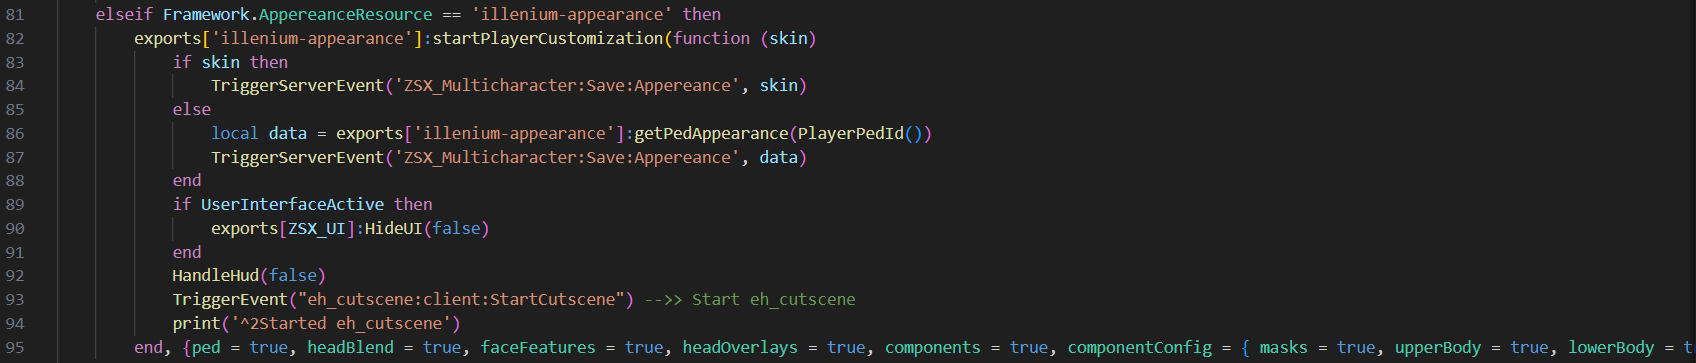
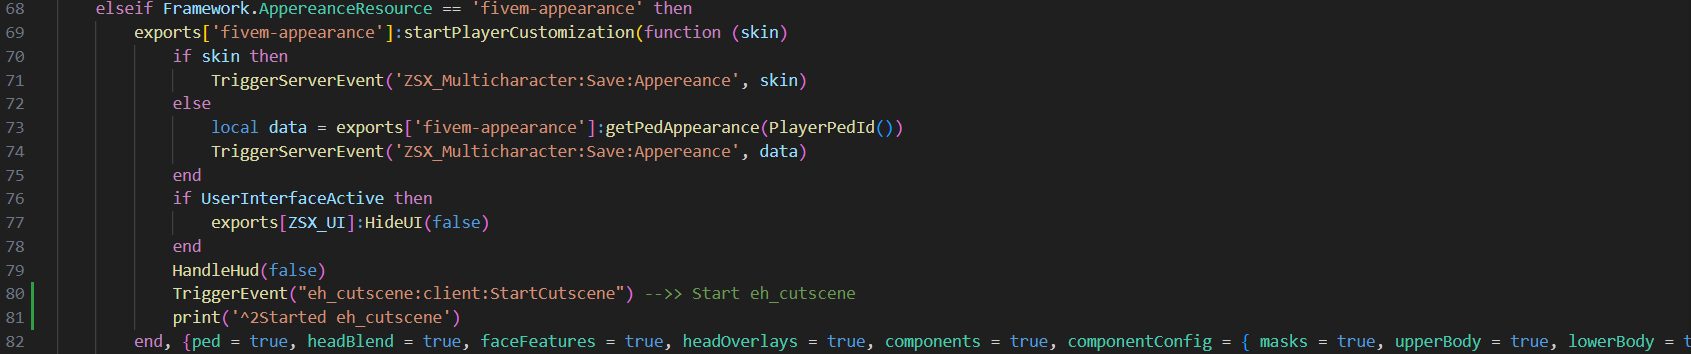
GITBOOK-188: No subject

diff --git a/our-scripts/advanced-cutscene/configuration/multicharacter/zsx-multicharacter.md b/our-scripts/advanced-cutscene/configuration/multicharacter/zsx-multicharacter.md
@@ -24,6 +24,42 @@ TriggerEvent("eh_cutscene:client:StartCutscene") -->> Start eh_cutscene
 print('^2Started eh_cutscene')
 ```
 
+<figure><img src="../../../../.gitbook/assets/image (2).png" alt=""><figcaption><p>This is how the modified client code should look like</p></figcaption></figure>
+{% endtab %}
+
+{% tab title="fivem-appearance" %}
+1. Navigate to <mark style="color:yellow;">`framework_functions.lua`</mark> in the <mark style="color:yellow;">`ZSX_Multicharacter/client/framework`</mark> folder.
+2. Locate the following line in the file:
+
+```lua
+exports.bl_appearance:InitialCreation(function()
+```
+
+3. Just below the line `HandleHud(false)` (around line 113), insert the following code:
+
+```lua
+TriggerEvent("eh_cutscene:client:StartCutscene") -->> Start eh_cutscene
+print('^2Started eh_cutscene')
+```
+
 <figure><img src="../../../../.gitbook/assets/image.png" alt=""><figcaption><p>This is how the modified client code should look like</p></figcaption></figure>
+{% endtab %}
+
+{% tab title="bl_appearance" %}
+1. Navigate to <mark style="color:yellow;">`framework_functions.lua`</mark> in the <mark style="color:yellow;">`ZSX_Multicharacter/client/framework`</mark> folder.
+2. Locate the following line in the file:
+
+```lua
+exports['fivem-appearance']:startPlayerCustomization(function (skin)
+```
+
+3. Just below the line `HandleHud(false)` (around line 79), insert the following code:
+
+```lua
+TriggerEvent("eh_cutscene:client:StartCutscene") -->> Start eh_cutscene
+print('^2Started eh_cutscene')
+```
+
+<figure><img src="../../../../.gitbook/assets/image (1).png" alt=""><figcaption><p>This is how the modified client code should look like</p></figcaption></figure>
 {% endtab %}
 {% endtabs %}
